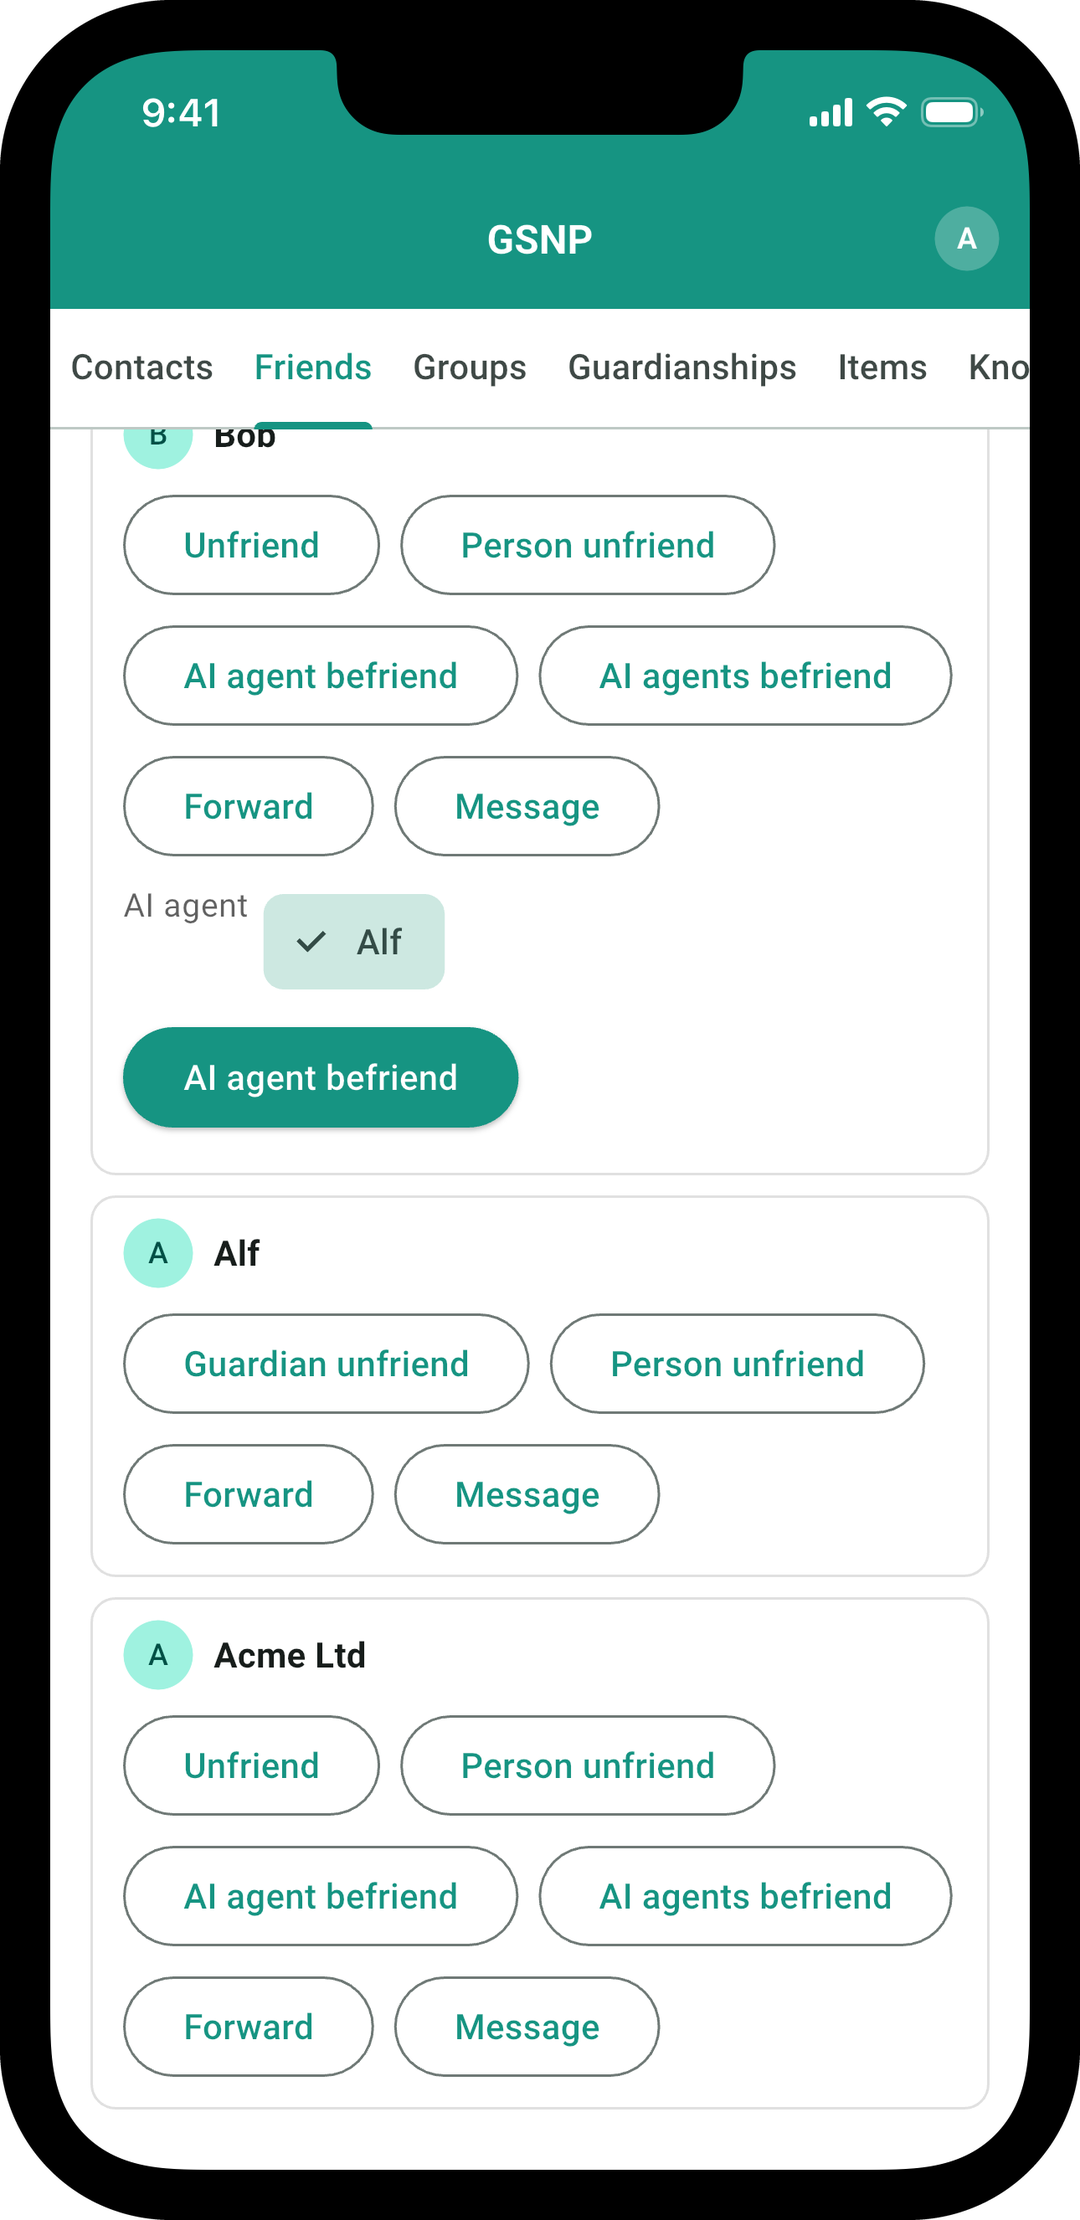
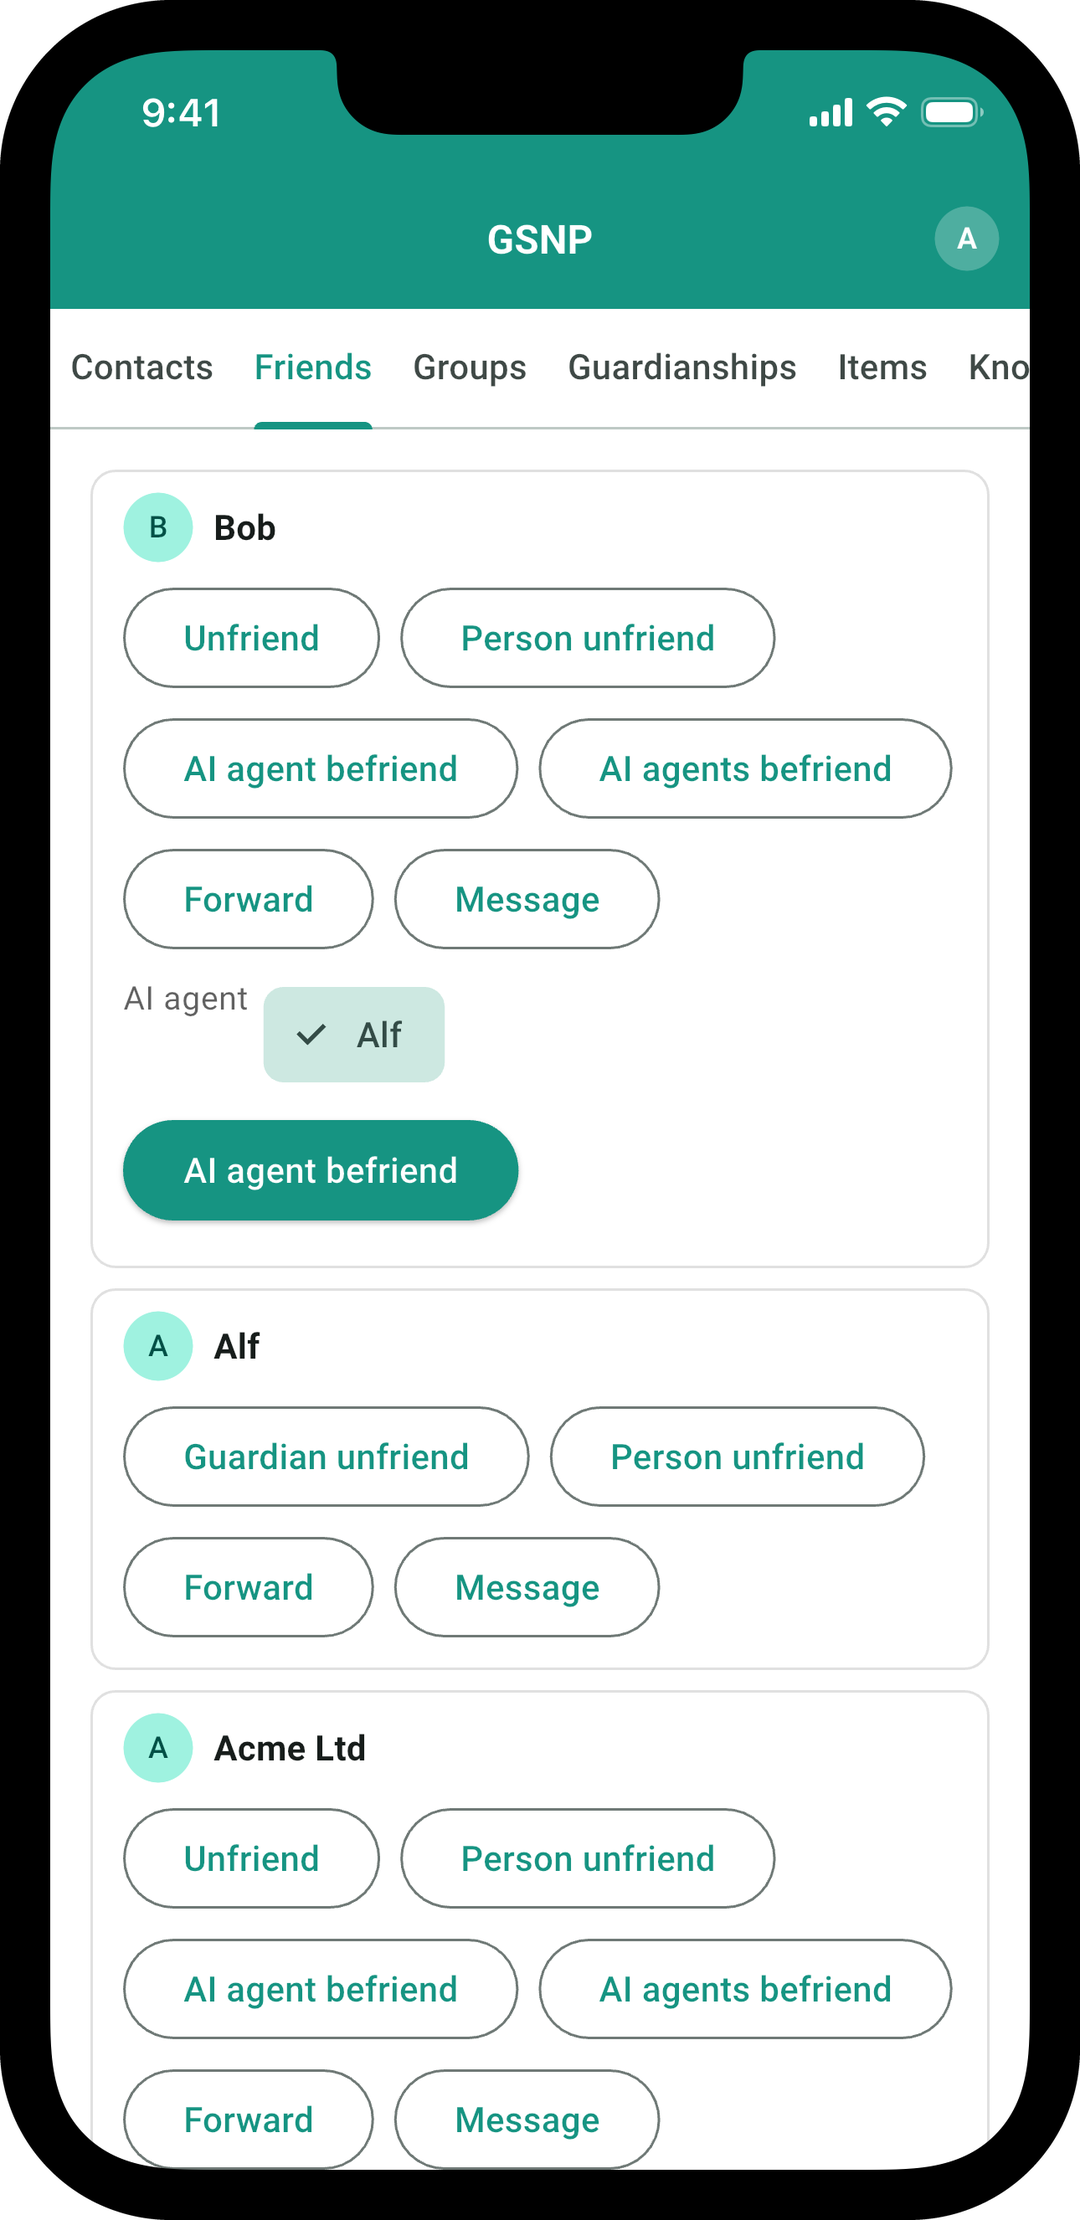
gai-c-alice-asked.png retaken with Bob's name whole: apps_screens_test.dart scrolls Alice's Friends tab back to its top before the screen and holds the form's button in view; README to match (Mac #1, GAI #15's task, Code's word of 2026-11-16 17:38 UTC)

diff --git a/glp_multiagent/test/apps_screens_test.dart b/glp_multiagent/test/apps_screens_test.dart
@@ -1823,6 +1823,11 @@ void appsScreens(Screens screens) {
     await run.top(alice);
     await run.tap(alice, run.control(alice, 'act:ai_agent_befriend:bob'));
     await run.tap(alice, run.control(alice, 'pick:ai_agent_befriend:bob:1:alf'));
+    // The tap brought the picked chip into view and so scrolled Bob's name half under the tabs: the tab back at its top, Bob's row whole from his name, the form still in view (GAI #15, Code_inbox.md 2026-11-16 17:37 UTC).
+    await run.top(alice);
+    expect(run.control(alice, 'send:ai_agent_befriend:bob').hitTestable(),
+        findsOneWidget,
+        reason: 'AI agent befriend\'s form is not in view at the tab\'s top');
     run.plain(alice, allow: const {'Peer'});
     await run.shoot(alice, 'gai-c-alice-asked.png');
     await run.tap(alice, run.control(alice, 'send:ai_agent_befriend:bob'));

diff --git a/programs/apps/gsnp/screens/README.md b/programs/apps/gsnp/screens/README.md
@@ -24,7 +24,7 @@ GAI's Figure "Accountable AI agents", the acts of the example of GAI's paper (Se
 | File | What it shows |
 |---|---|
 | `gai-b-alice-agents.png` | Alice's tab Guardianships after she entered Alf: Alf's row, and in it the acts of a guardian of Alf, Resign, Guardian unfriend, End guardian and Retire, each drawn in the row of the AI agent it names. |
-| `gai-c-alice-asked.png` | Alice's Friends tab as she proposes that Alf befriend Bob: in Bob's row, scrolled so that his name is half under the tabs, Unfriend, Person unfriend, AI agent befriend, AI agents befriend, Forward and Message, and AI agent befriend's form open, Alf picked under AI agent, and the button AI agent befriend; under it Alf's row, her friend as its guardian, with Guardian unfriend, Person unfriend, Forward and Message, and Acme Ltd's. |
+| `gai-c-alice-asked.png` | Alice's Friends tab as she proposes that Alf befriend Bob: in Bob's row, the first, Unfriend, Person unfriend, AI agent befriend, AI agents befriend, Forward and Message, and AI agent befriend's form open, Alf picked under AI agent, and the button AI agent befriend; under it Alf's row, her friend as its guardian, with Guardian unfriend, Person unfriend, Forward and Message, and Acme Ltd's. |
 | `gai-d-bob-asked.png` | Bob's first tab, Contacts, badged, asked GAI's question to the other person, "Alice asks that you and her AI agent Alf befriend.", under it the proposer's atom as the tab draws it, "Friends: Bob", with yes and no; below it his name, Acquaint, Create and AI agent acquaint with their fields. |
 | `gai-e-bob-known-agents.png` | Bob's tab Known AI agents: Alf, under it "Alf runs code signed by Acme Ltd (Alice)", his record of Alf's attestation, the speech act Alice, its principal, signed, naming its developer, Acme Ltd (GAI:2). |
 
